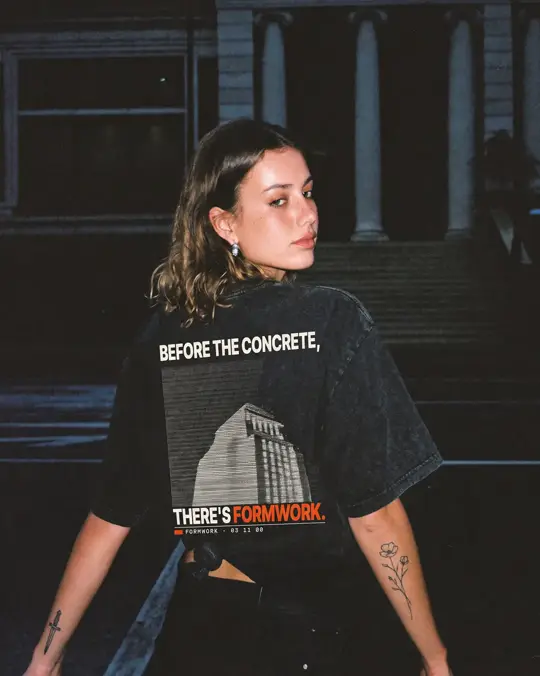
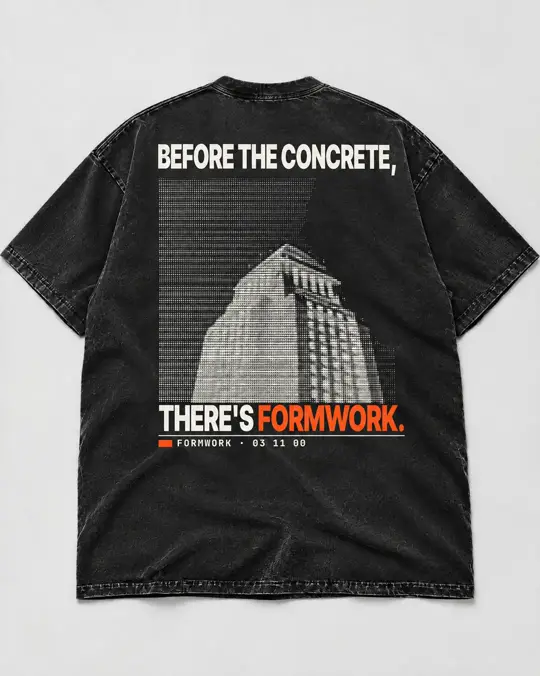
Shop: remove denied Tower 1928 model shot; lead with back studio

diff --git a/shop.html b/shop.html
@@ -51,7 +51,7 @@
         <span class="pmeta"><span class="mono dim">Tee · waitlist</span><b>Tower 1934 ASCII Tee</b></span>
       </a>
       <a class="pcard" href="#tower1928" data-go="tower1928">
-        <span class="pimg"><img src="assets/shop/tower1928-card.webp" alt="Tower 1928 Tee, back print, worn" width="540" height="675" loading="lazy" decoding="async"></span>
+        <span class="pimg"><img src="assets/shop/tower1928-card.webp" alt="Tower 1928 Tee, back print, studio" width="540" height="675" loading="lazy" decoding="async"></span>
         <span class="pmeta"><span class="mono dim">Tee · waitlist</span><b>Tower 1928 Tee</b></span>
       </a>
       <a class="pcard" href="#ironworker1930" data-go="ironworker1930">
@@ -106,13 +106,12 @@
     <section class="gallery" aria-label="Tower 1928 Tee images">
       <div class="stage-img">
         <i class="hud tl"></i><i class="hud tr"></i>
-        <img class="gmain" src="assets/shop/tower1928-1.webp" alt="Tower 1928 Tee, back print, worn" width="1080" height="1350" decoding="async" loading="lazy">
-        <div class="gcap mono"><span class="dim">01 / 04</span><span>Back print, worn</span></div>
+        <img class="gmain" src="assets/shop/tower1928-3.webp" alt="Tower 1928 Tee, back print, studio" width="1080" height="1350" decoding="async" loading="lazy">
+        <div class="gcap mono"><span class="dim">01 / 03</span><span>Back · studio</span></div>
       </div>
       <div class="thumbs" role="tablist" aria-label="Choose image" style="grid-template-columns:repeat(4,1fr)">
-        <button type="button" class="th on" role="tab" aria-selected="true" data-src="assets/shop/tower1928-1.webp" data-alt="Tower 1928 Tee, back print, worn" data-cap="Back print, worn"><img src="assets/shop/tower1928-1-t.webp" alt="" width="240" height="300" loading="lazy"></button>
+        <button type="button" class="th on" role="tab" aria-selected="true" data-src="assets/shop/tower1928-3.webp" data-alt="Tower 1928 Tee, back print, studio" data-cap="Back · studio"><img src="assets/shop/tower1928-3-t.webp" alt="" width="240" height="300" loading="lazy"></button>
         <button type="button" class="th" role="tab" aria-selected="false" data-src="assets/shop/tower1928-2.webp" data-alt="Tower 1928 Tee, blank front, studio" data-cap="Front · studio"><img src="assets/shop/tower1928-2-t.webp" alt="" width="240" height="300" loading="lazy"></button>
-        <button type="button" class="th" role="tab" aria-selected="false" data-src="assets/shop/tower1928-3.webp" data-alt="Tower 1928 Tee, back print, studio" data-cap="Back · studio"><img src="assets/shop/tower1928-3-t.webp" alt="" width="240" height="300" loading="lazy"></button>
         <button type="button" class="th" role="tab" aria-selected="false" data-src="assets/shop/tower1928-4.webp" data-alt="Close-up of the halftone back print" data-cap="Print · close-up"><img src="assets/shop/tower1928-4-t.webp" alt="" width="240" height="300" loading="lazy"></button>
       </div>
       <p class="fine">Images are renders. Final garment may vary.<br>Print source: Tower, upper stories, Los Angeles City Hall (completed 1928), HABS CAL,19-LOSAN,51-9, public domain, <a href="https://commons.wikimedia.org/wiki/File:Tower,upper_stories_-_Los_Angeles_City_Hall,_200_North_Spring_Street,_Los_Angeles,_Los_Angeles_County,_CA_HABS_CAL,19-LOSAN,51-9.tif" target="_blank" rel="noopener">Library of Congress</a>.</p>
